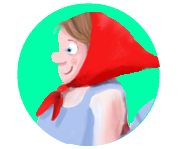
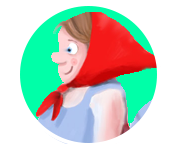
nytt fint bilde <3, og ny fag-farge

Changed region(s): [[0.0829, 0.0, 0.884, 0.9933]]

diff --git a/public/stylesheets/main.css b/public/stylesheets/main.css
@@ -25,7 +25,7 @@
     width: 103%;
     z-index: 99;
     left: -8px;
-    background-color: blue;
+    background-color: #D20000;
     transition: background-color 0.1s;
 }
 
